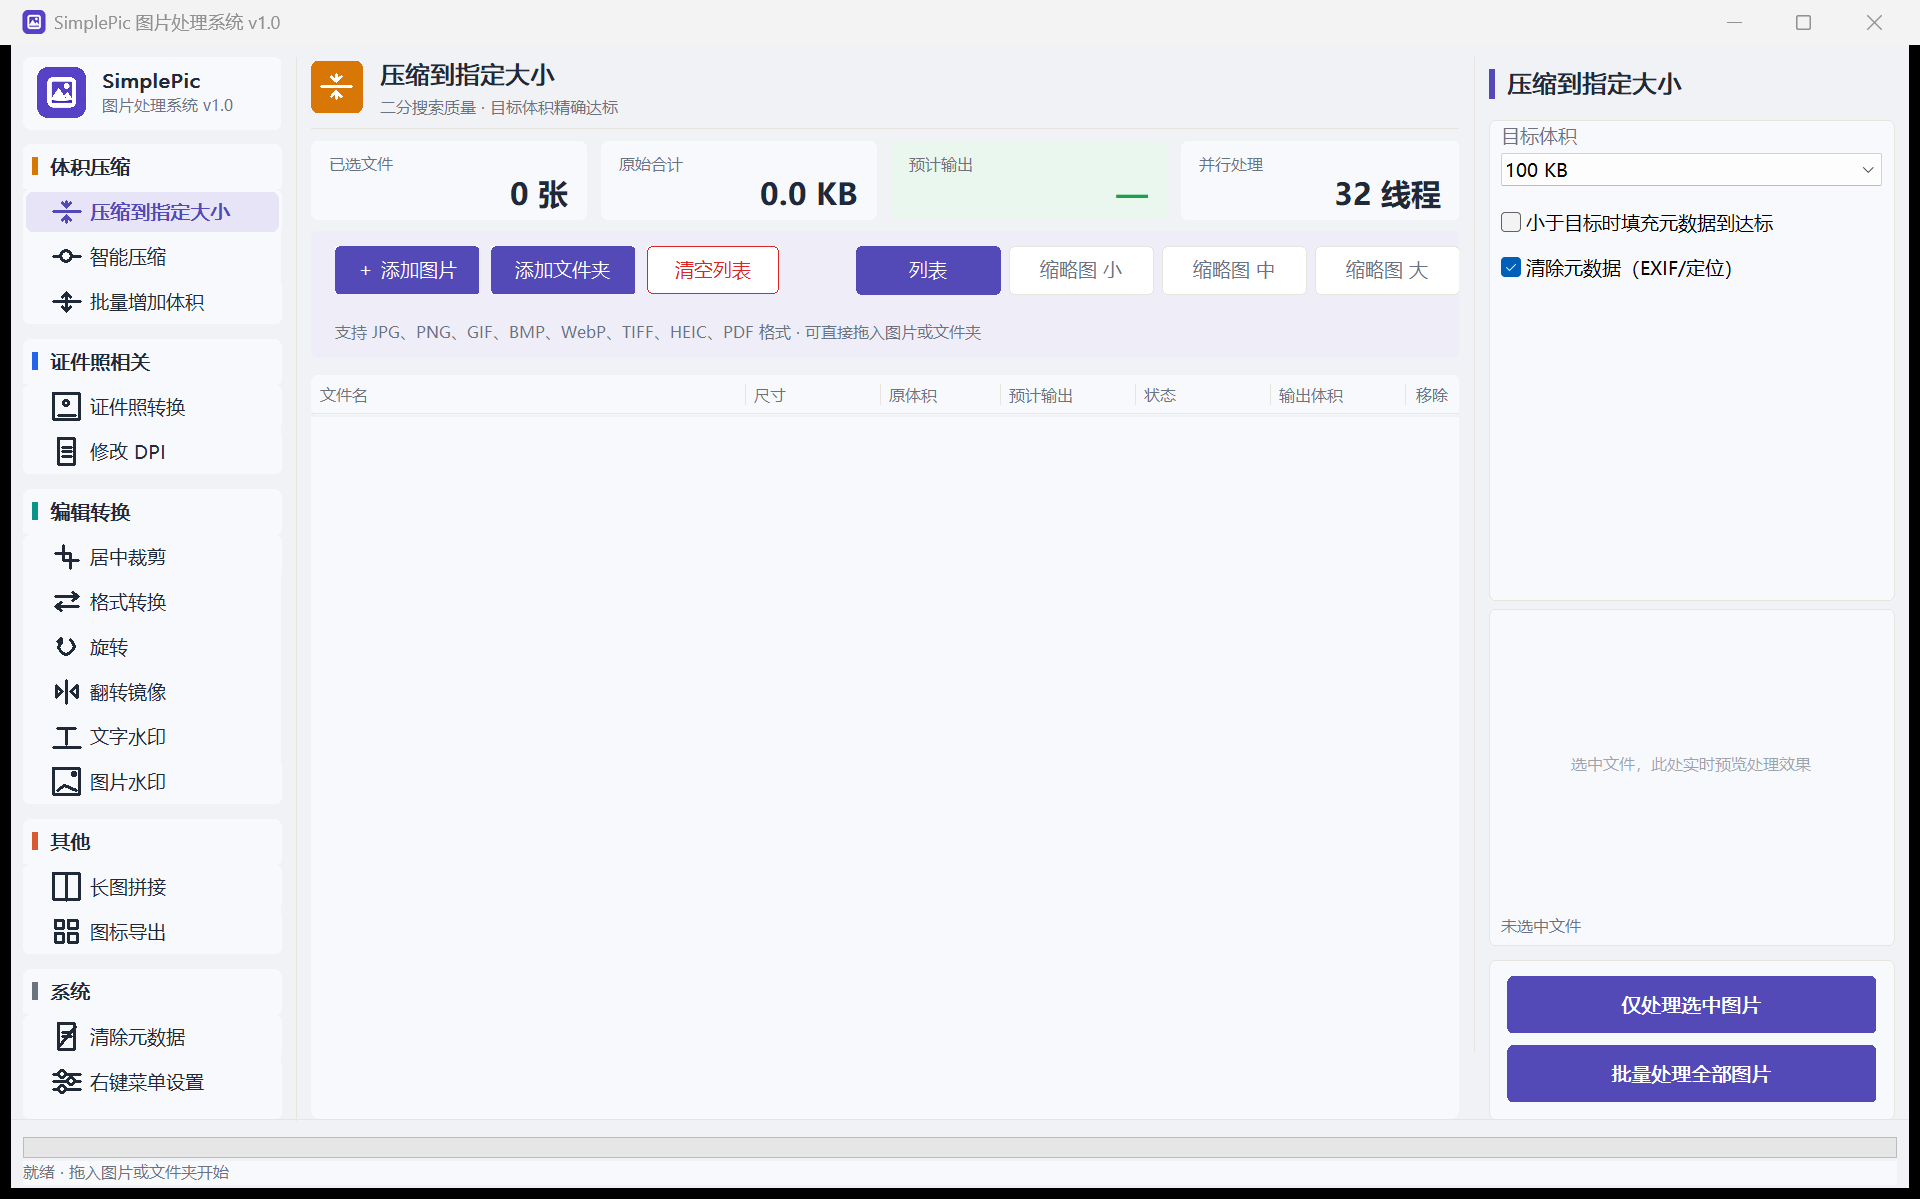
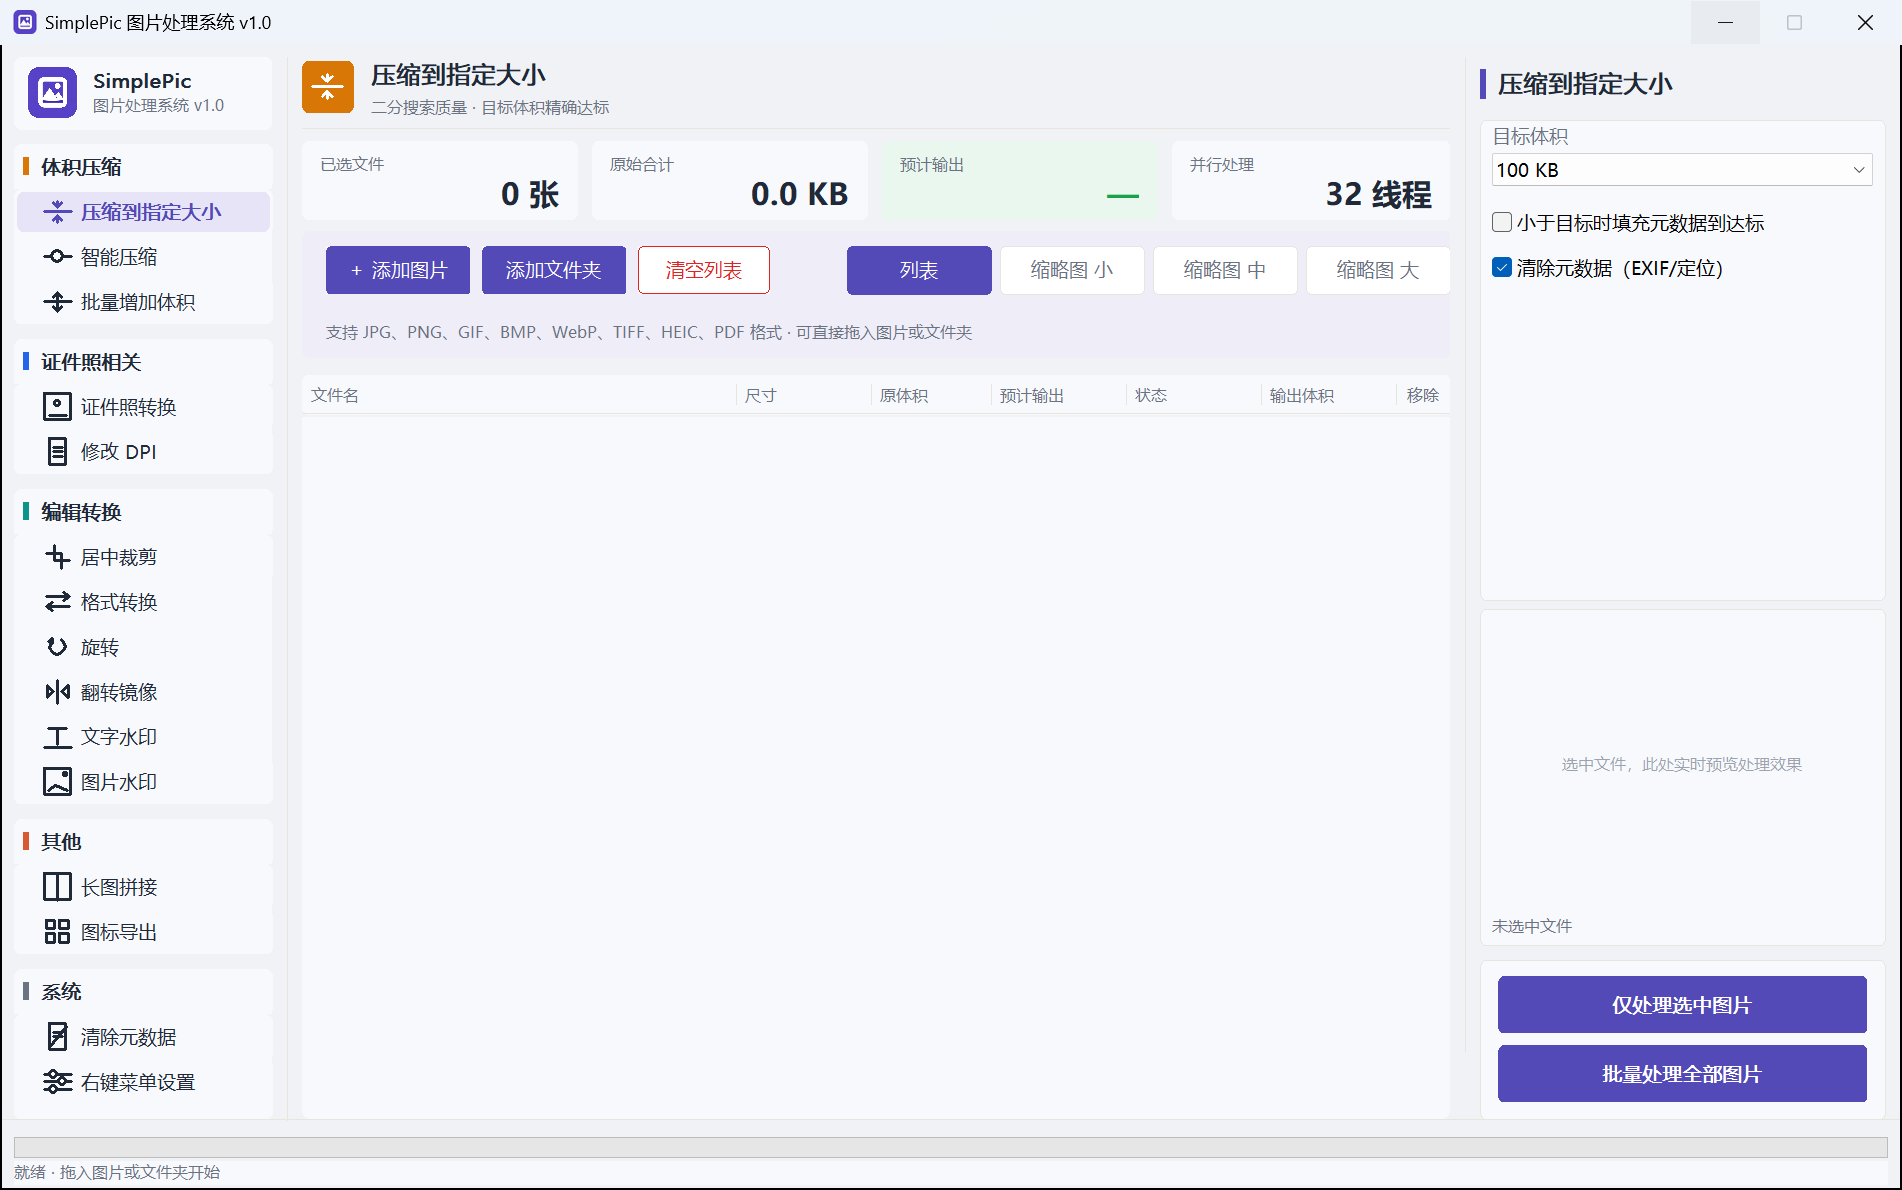
docs: 重截主界面截图，去除四周黑边
- tools/capture_shot.py：PrintWindow 后按 DWMWA_EXTENDED_FRAME_BOUNDS 裁剪，
  去掉 DWM 不可见缩放边框/阴影区（此前被渲染为黑色，截图四周出现大黑边）
- docs/screenshot.png：更新为无黑边版本（同时反映固定窗口与最新 UI）

diff --git a/tools/capture_shot.py b/tools/capture_shot.py
@@ -1,9 +1,12 @@
 # capture SimplePic main window via PrintWindow -> docs/screenshot.png
-import ctypes, ctypes.wintypes as wt, subprocess, time, sys, struct
+# 裁剪到 DWM 扩展框架边界（真实可见窗口）：PrintWindow 会把 DWM 不可见边框/
+# 阴影区渲染成黑色，直接落盘会在截图四周出现大黑边
+import ctypes, ctypes.wintypes as wt, subprocess, time, sys
 from PIL import Image
 
 u32 = ctypes.windll.user32
 gdi = ctypes.windll.gdi32
+dwm = ctypes.windll.dwmapi
 u32.SetProcessDPIAware()
 
 subprocess.run(["taskkill", "/f", "/im", "SimplePic.exe"], capture_output=True)
@@ -20,6 +23,11 @@ time.sleep(0.8)
 r = wt.RECT()
 u32.GetWindowRect(hwnd, ctypes.byref(r))
 w, h = r.right - r.left, r.bottom - r.top
+
+# DWM 真实可见边界（去掉不可见缩放边框与阴影）
+fb = wt.RECT()
+if dwm.DwmGetWindowAttribute(hwnd, 9, ctypes.byref(fb), ctypes.sizeof(fb)) != 0:
+    fb = r  # 拿不到（老系统）退回整窗
 
 hdc_wnd = u32.GetWindowDC(hwnd)
 hdc_mem = gdi.CreateCompatibleDC(hdc_wnd)
@@ -45,6 +53,9 @@ u32.ReleaseDC(hwnd, hdc_wnd)
 
 if not ok or not got:
     print("PrintWindow failed", ok, got); sys.exit(1)
-img = Image.frombuffer("RGBA", (w, h), buf.raw, "raw", "BGRA", 0, 1)
+img = Image.frombuffer("RGBA", (w, h), buf.raw, "raw", "BGRA", 0, 1).convert("RGB")
+# 按 DWM 可见边界裁剪（偏移 = 框架边界 - 窗口矩形原点）
+box = (fb.left - r.left, fb.top - r.top, fb.right - r.left, fb.bottom - r.top)
+img = img.crop(box)
 img.save(r"E:\TRAE Project\SimplePic\docs\screenshot.png")
-print("captured", w, "x", h)
+print("captured", w, "x", h, "-> crop", img.size)
